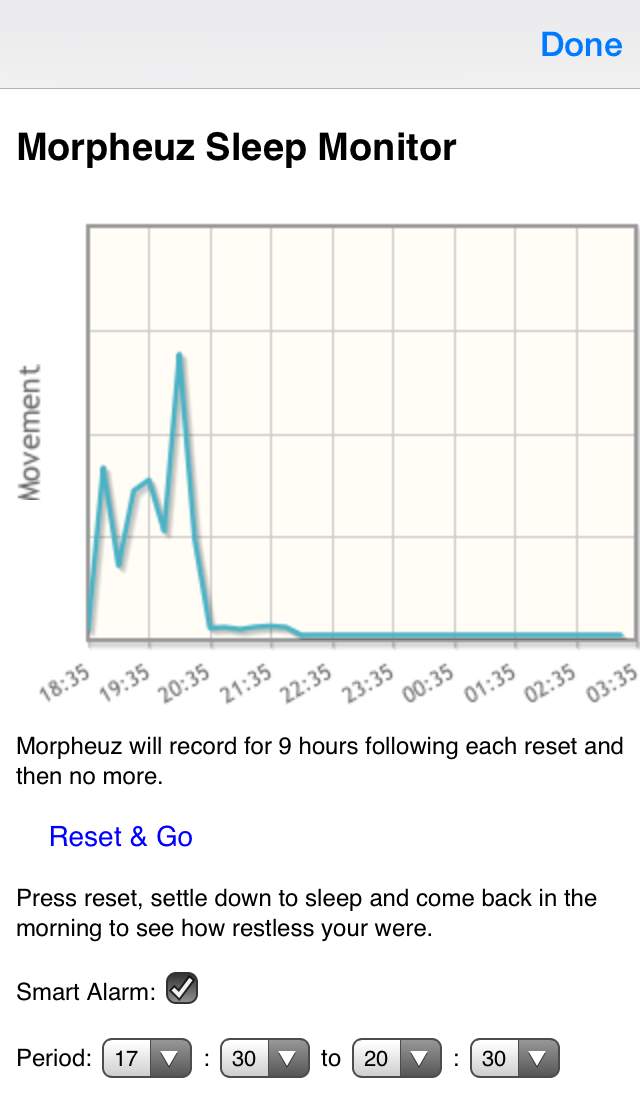
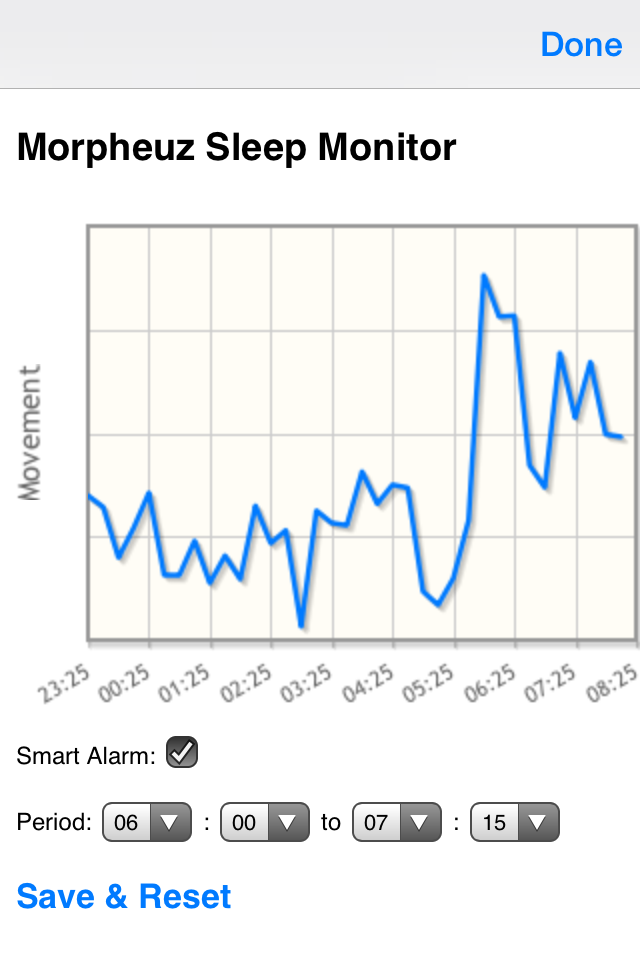
New config screen, screenshot and web site stuff

diff --git a/website/morpheuz/view2.html b/website/morpheuz/view2.html
@@ -3,7 +3,31 @@
 <!-- Graph page for version 0.5.0 of Morpheuz -->
 <head>
 <title>Morpheuz Sleep Monitor</title>
-<link rel="stylesheet" type="text/css" href="standard.css" />
+<style>
+body {
+   width: 320px;
+   font-family: "Lucida Sans Unicode", "Lucida Grande", sans-serif;
+}
+
+h2 {
+}
+
+p {
+font-size: 12px;
+}
+
+#reset {
+  border: none;
+  background-color: transparent;
+  color: rgb(0,122,255);
+  font-size: 17px;
+  font-weight: 500;
+  margin-left:0px;
+  text-align:left;
+  border-left:0px;
+  padding-left:0px
+}
+</style>
 <script language="javascript" type="text/javascript"
 	src="jqplot/jquery.min.js"></script>
 <script language="javascript" type="text/javascript"
@@ -24,11 +48,6 @@
 	<form action="">
 		<h3>Morpheuz Sleep Monitor</h3>
 		<div id="chart1" style="width: 320px; height: 250px;"></div>
-		<p>Morpheuz will record for 9 hours following each reset and then
-			no more.</p>
-		<button id="reset" type="button">Reset & Go</button>
-		<p>Press reset, settle down to sleep and come back in the morning
-			to see how restless your were.</p>
 		<p>
 			<label for="smartalarm">Smart Alarm:</label> <input id="smartalarm"
 				type="checkbox" />
@@ -96,6 +115,7 @@
 				<option>45</option>
 			</select>
 		</p>
+		<button id="reset" type="button">Save & Reset</button>
 	</form>
 	<script language='javascript' type="text/javascript">
 		Date.prototype.format = function(format) //author: meizz
@@ -175,6 +195,8 @@
 			var element = new Array();
                       element[0] = startPoint;
                       element[1] = parseInt(splitup[i]);
+                      if (element[1] == -1) 
+				element[1] = null;
 			more[i] = element;
                       startPoint = startPoint.addMinutes(15);
                }
@@ -182,7 +204,9 @@
 		$(document).ready(function() {
 			var plot2 = $.jqplot('chart1', [more], {
 				series : [ {
-					showMarker : false
+					showMarker : false,
+                                     breakOnNull : true,
+                                     color: 'rgb(0,122,255)'
 				} ],
 				// You can specify options for all axes on the plot at once with
 				// the axesDefaults object.  Here, we're using a canvas renderer
@@ -240,6 +264,7 @@
 					+ '!' + tominpart;
                       }
 		}
-	</script>
+
+    </script>
 </body>
 </html>

diff --git a/website/morpheuz/standard.css b/website/morpheuz/standard.css
@@ -13,6 +13,6 @@ font-size: 12px;
 #reset {
   border: none;
   background-color: transparent;
-  color: blue;
-  font-size: 14px;
+  color: rgb(0,122,255);
+  font-size: 15px;
 }
